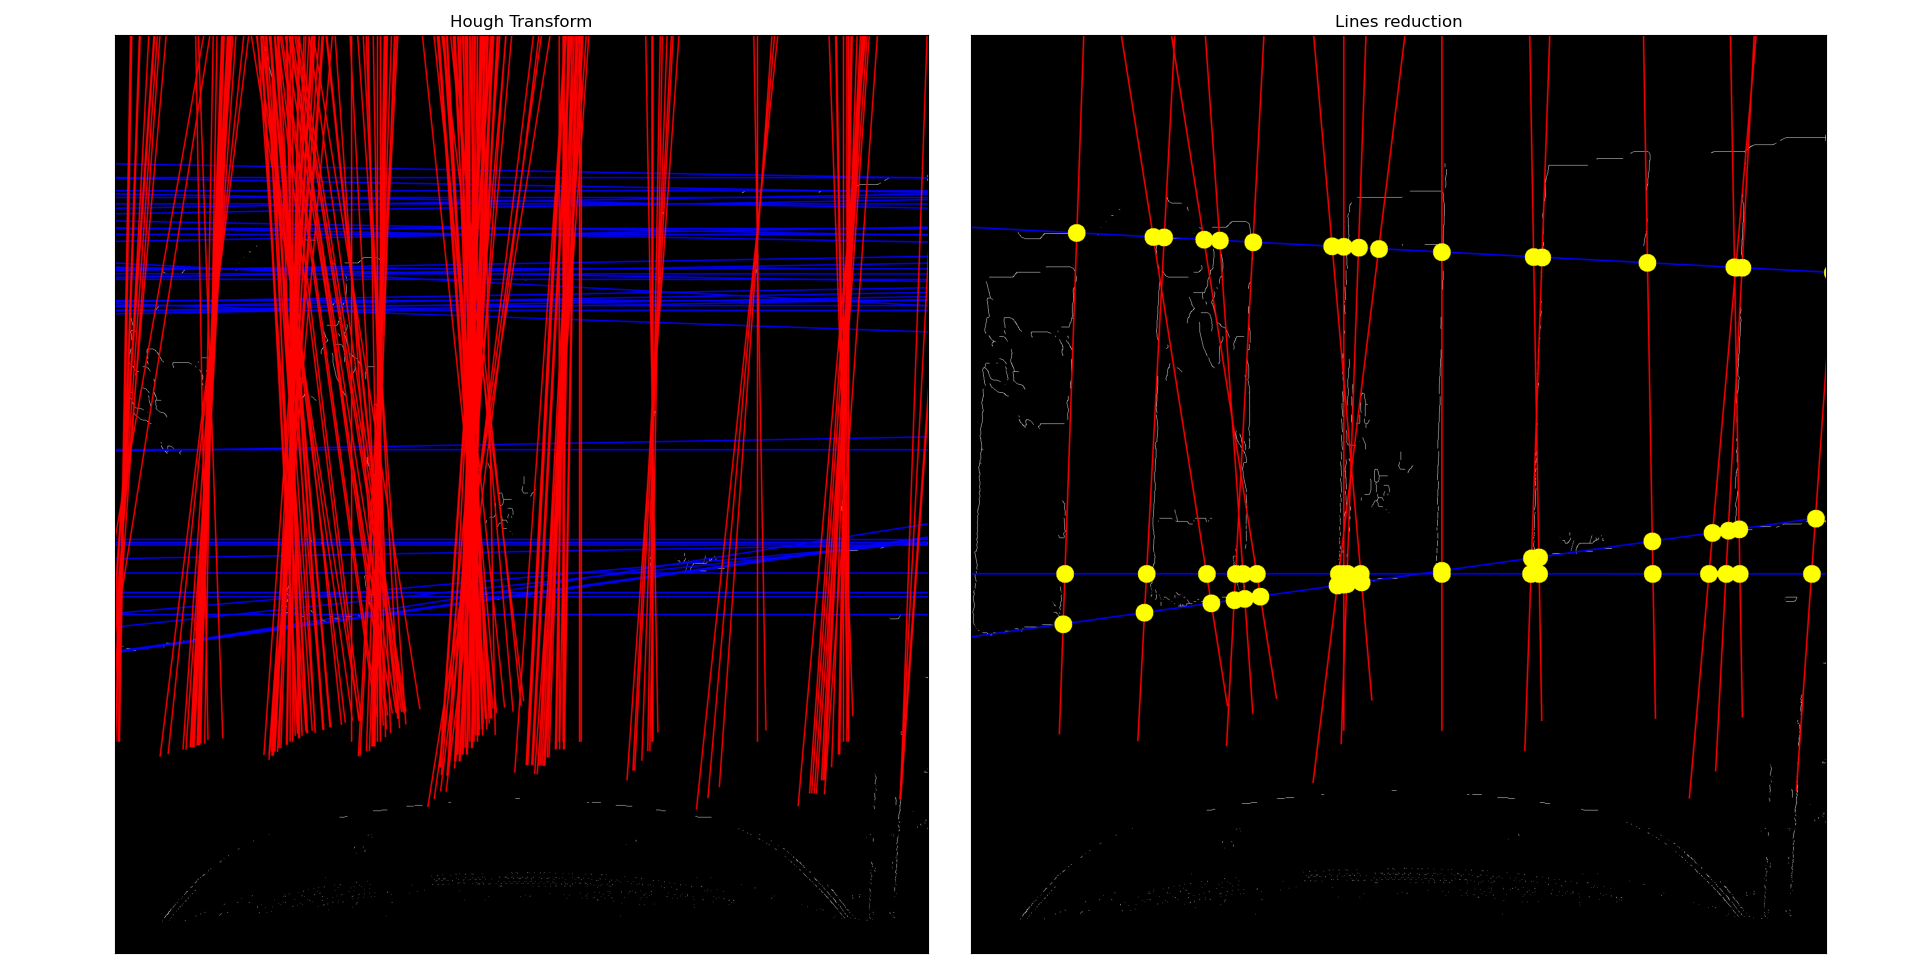
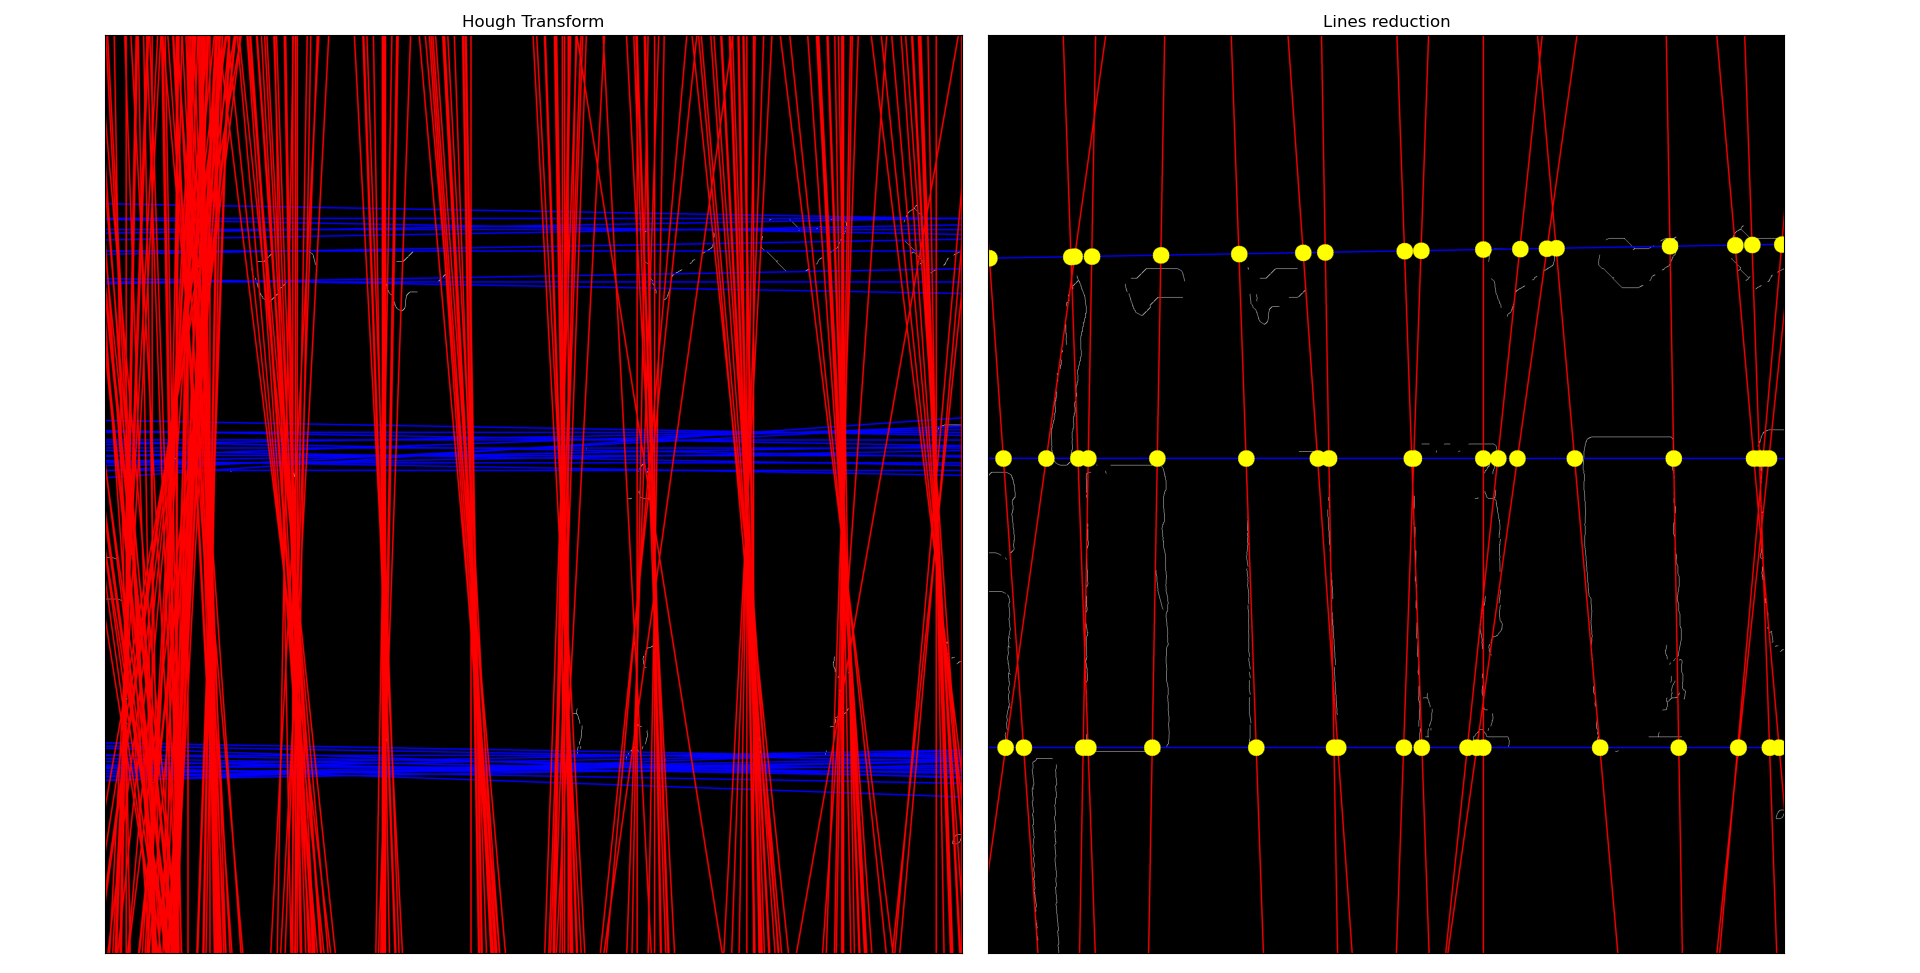
some little fix

diff --git a/crosswalks/code/crosswalks_analysis.py b/crosswalks/code/crosswalks_analysis.py
@@ -8,8 +8,8 @@ import evaluation as ev
 import os
 from matplotlib import pyplot as plt
 
-FOLDER = '35'
-FILENAME = '35_041.png'
+FOLDER = '05'
+FILENAME = '05_320.png'
 
 
 # White Balancing of an image (gray world assumption)
@@ -26,12 +26,10 @@ def white_balance(img):
 # Function for computing Bird's Eye View
 def bird_eye(img, numFolder=FOLDER):
     # clockwise order starting from top-left point
-    if int(numFolder) in (5, 22, 26):
+    if int(numFolder) in (5, 26):
         src = np.array([[890, 471], [1030, 471], [1919, 1079], [0, 1079]], dtype='float32')
     elif int(numFolder) == 6:
         src = np.array([[911, 562], [1009, 562], [1919, 1079], [0, 1079]], dtype='float32')
-    elif int(numFolder) == 23:
-        src = np.array([[890, 585], [1030, 585], [1919, 1079], [0, 1079]], dtype='float32')
     elif int(numFolder) == 35:
         src = np.array([[853, 600], [964, 600], [1919, 1079], [0, 1079]], dtype='float32')
     else:
@@ -348,7 +346,7 @@ def crosswalks_analysis(im):
 
 def main():
     a = argparse.ArgumentParser()
-    a.add_argument("--numFolder", help="number of folder: 01, 02, ..., 74", required=False)
+    a.add_argument("--numFolder", help="number of folder: 05, 06, 26, or 35", required=False)
     args = a.parse_args()
     if args.numFolder is None:
         print('Analyzing \'{}\''.format(FILENAME))

diff --git a/crosswalks/code/evaluation.py b/crosswalks/code/evaluation.py
@@ -3,6 +3,7 @@ import numpy as np
 import argparse
 from math import sqrt
 
+
 def evaluation(numFolder):
     gt = np.zeros((480,), dtype=np.int8)
     pred = np.zeros((480,), dtype=np.int8)
@@ -63,13 +64,14 @@ def evaluation(numFolder):
     print('G-mean = {:0.2f}'.format(gmean) + '\tF1 = ' + str(f1))
     print('Accuracy = ' + str(accuracy))
 
+
 if __name__ == '__main__':
     a = argparse.ArgumentParser()
-    a.add_argument("--numFolder", help="number of folder: 01, 02, ..., 74")
+    a.add_argument("--numFolder", help="number of folder: 05, 06, 26, or 35")
     args = a.parse_args()
     if args.numFolder is None:
         print('No numFolder')
-    elif 1 <= int(args.numFolder) <= 74:
+    elif int(args.numFolder) in (5, 6, 26, 35):
         evaluation(args.numFolder)
     else:
         print('Error')
